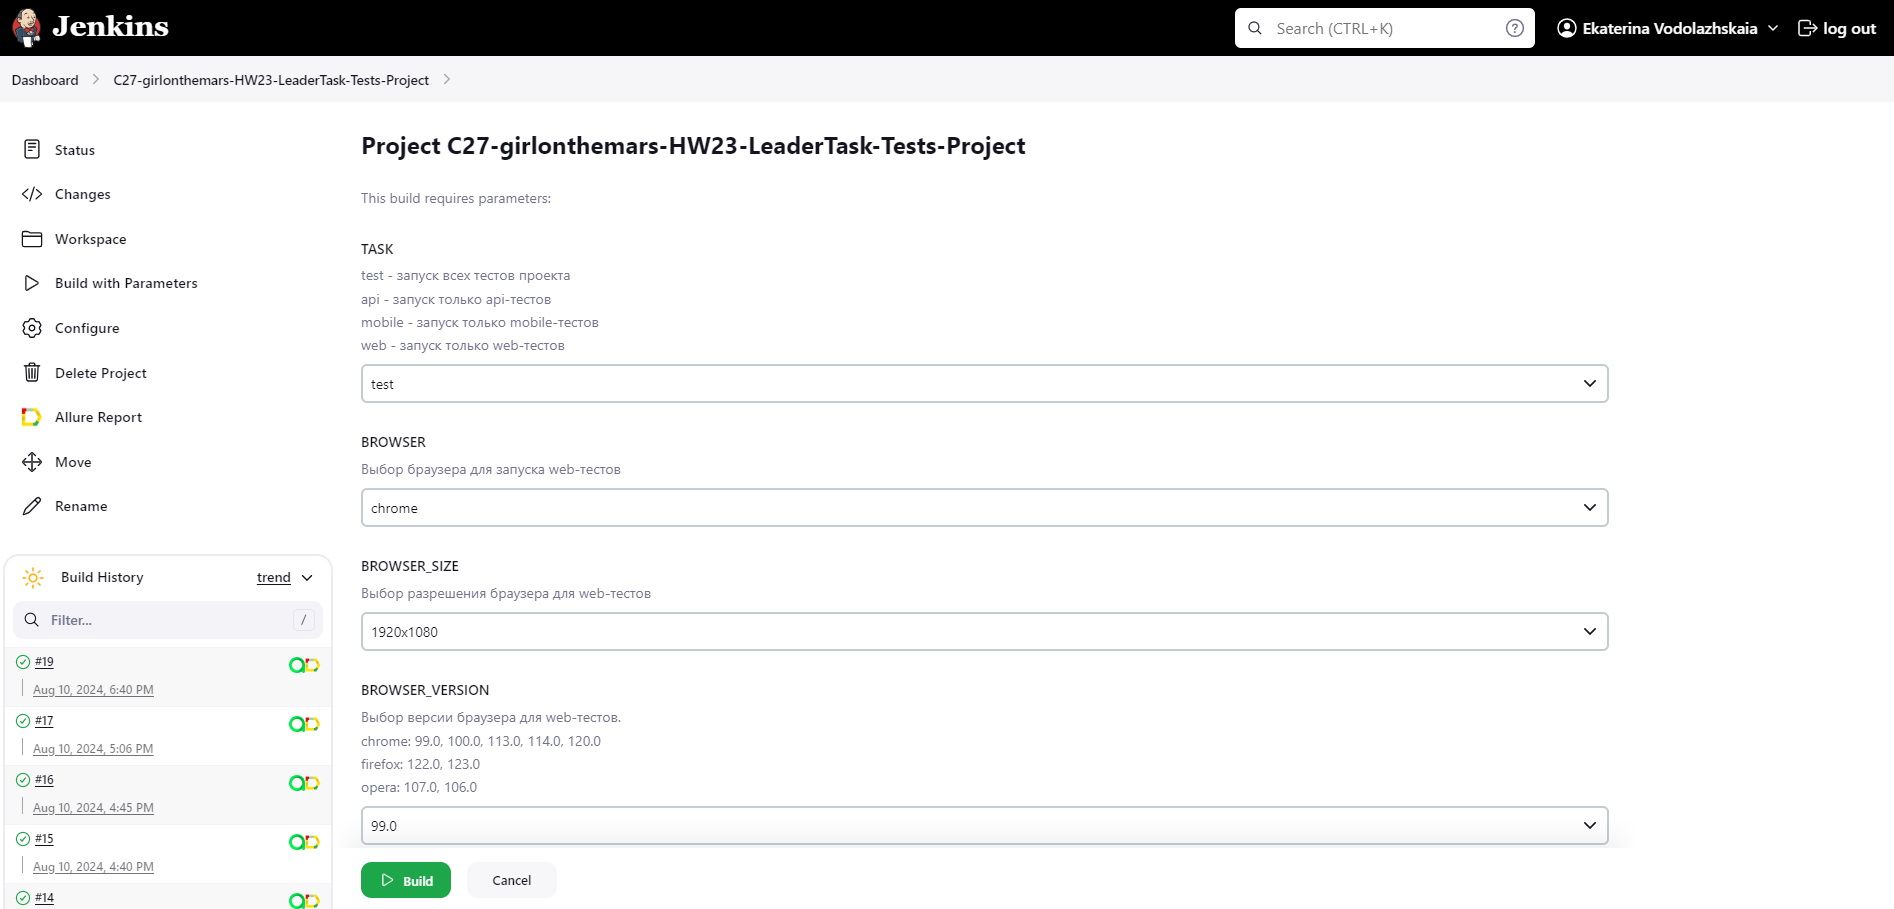
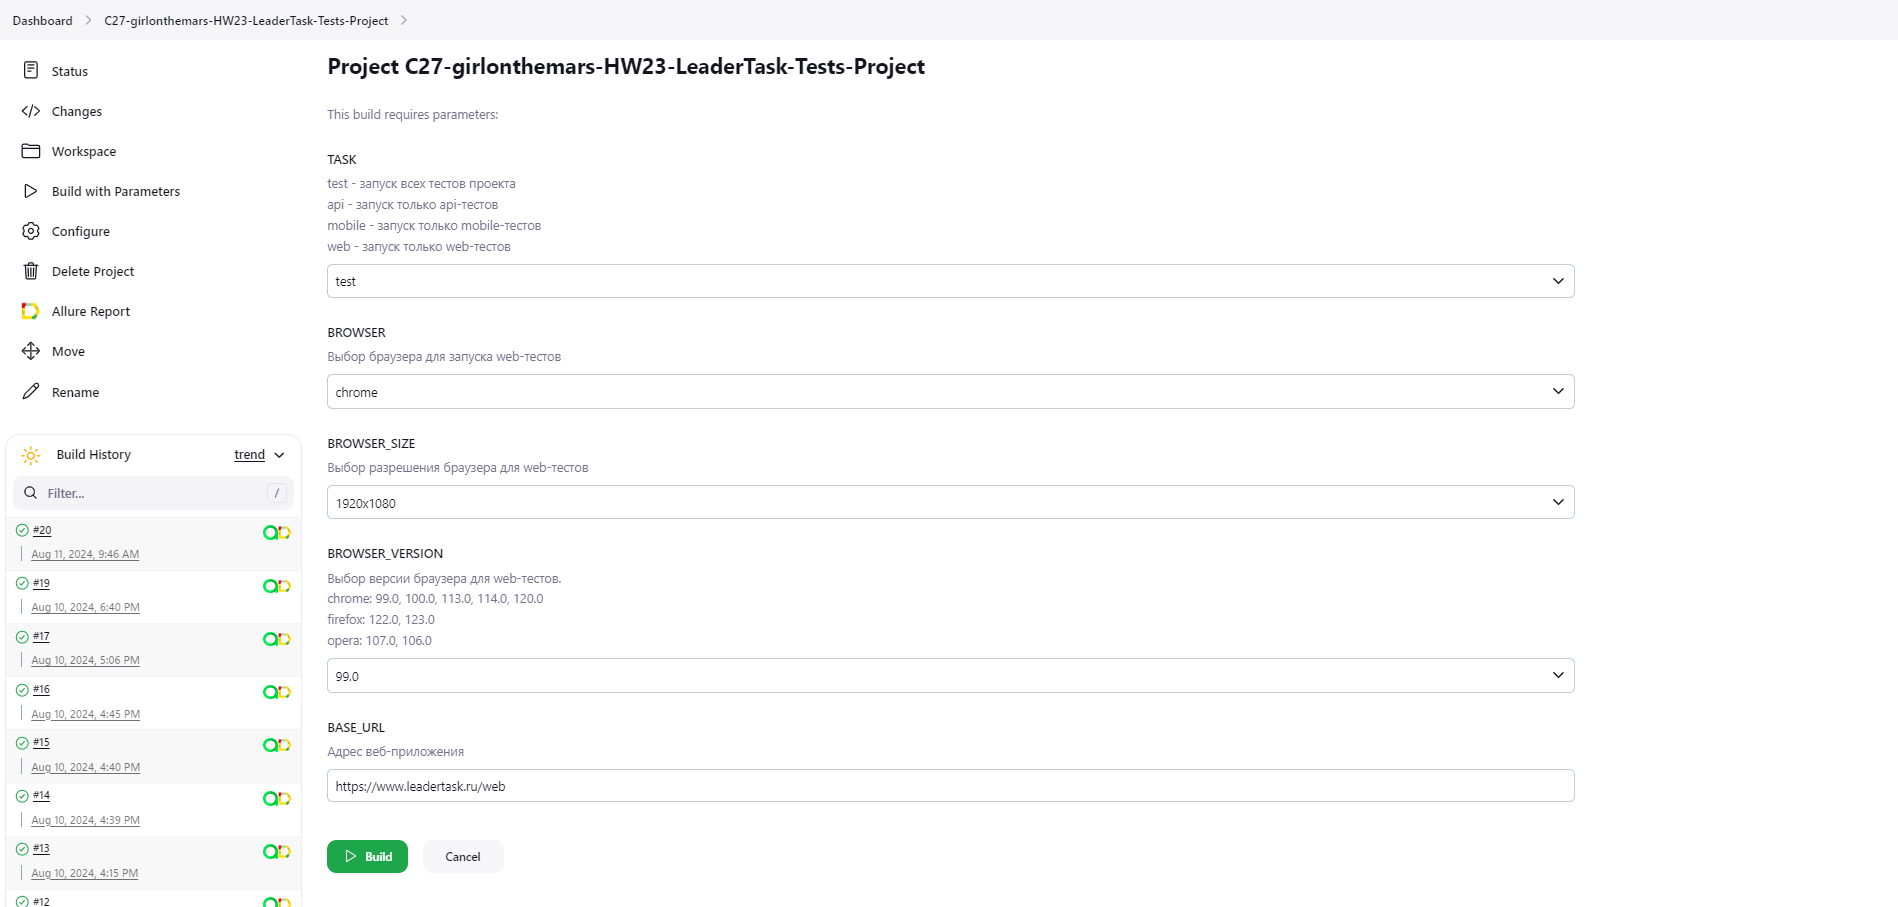
minor fixes

diff --git a/src/test/java/tests/web/WebTestBase.java b/src/test/java/tests/web/WebTestBase.java
@@ -18,15 +18,15 @@ import java.util.Map;
 
 import static com.codeborne.selenide.Selenide.closeWebDriver;
 
-public class TestBase {
+public class WebTestBase {
+    public static String browserHost = System.getProperty("browserHost", "remote");
+
     @BeforeAll
     static void beforeAll() {
-
         ApiConfig apiConfig = ConfigFactory.create(ApiConfig.class);
         RestAssured.baseURI = apiConfig.baseURI();
         RestAssured.basePath = apiConfig.basePath();
 
-        String browserHost = System.getProperty("browserHost", "remote");
         WebConfig webConfig = ConfigFactory.create(WebConfig.class, System.getProperties());
         AuthConfig authConfig = ConfigFactory.create(AuthConfig.class);
 
@@ -58,7 +58,10 @@ public class TestBase {
     void addAttachments() {
         Attach.screenshotAs("Last screenshot");
         Attach.pageSource();
-        Attach.addVideo();
+        Attach.browserConsoleLogs();
+        if (browserHost.equals("remote")) {
+            Attach.addVideo();
+        }
         closeWebDriver();
     }
 }

diff --git a/src/test/java/helpers/extensions/LoginExtension.java b/src/test/java/helpers/extensions/LoginExtension.java
@@ -1,6 +1,7 @@
 package helpers.extensions;
 
 import api.CreateUserApi;
+import io.qameta.allure.Step;
 import org.junit.jupiter.api.extension.BeforeEachCallback;
 import org.junit.jupiter.api.extension.ExtensionContext;
 
@@ -10,6 +11,7 @@ import static com.codeborne.selenide.Selenide.open;
 
 public class LoginExtension implements BeforeEachCallback {
     @Override
+    @Step("Создать нового пользователя и авторизоваться им в системе")
     public void beforeEach(ExtensionContext context) {
         CreateUserApi.setAuthData();
         open("/favicon.ico");

diff --git a/src/test/java/tests/mobile/AuthorizationFlowTests.java b/src/test/java/tests/mobile/AuthorizationFlowTests.java
@@ -10,11 +10,12 @@ import org.junit.jupiter.api.Test;
 import pages.mobile.*;
 
 import static io.qameta.allure.Allure.step;
+
 @Owner("Водолажская Екатерина")
 @Feature("Авторизация")
 @Story("Флоу авторизации в мобильном приложении")
 @Tag("mobile")
-public class AuthorizationFlowTests extends TestBase {
+public class AuthorizationFlowTests extends MobileTestBase {
     WelcomeScreen welcomeScreen = new WelcomeScreen();
     EnterEmailScreen enterEmailScreen = new EnterEmailScreen();
     SignUpScreen signUpScreen = new SignUpScreen();

diff --git a/src/test/java/tests/web/MyAccountTests.java b/src/test/java/tests/web/MyAccountTests.java
@@ -15,7 +15,7 @@ import static io.qameta.allure.Allure.step;
 @Owner("Водолажская Екатерина")
 @Feature("Профиль пользователя")
 @Tag("web")
-public class MyAccountTests extends TestBase {
+public class MyAccountTests extends WebTestBase {
     MyAccountPage myAccountPage = new MyAccountPage();
     WebTestData testData = new WebTestData();
 

diff --git a/src/test/java/tests/web/ProjectTests.java b/src/test/java/tests/web/ProjectTests.java
@@ -16,7 +16,7 @@ import static io.qameta.allure.Allure.step;
 @Owner("Водолажская Екатерина")
 @Feature("Проект")
 @Tag("web")
-public class ProjectTests extends TestBase {
+public class ProjectTests extends WebTestBase {
     LeaderTaskApi apiSteps = new LeaderTaskApi();
     ProjectPage projectPage = new ProjectPage();
     WebTestData testData;

diff --git a/src/test/java/tests/api/AuthorizationTests.java b/src/test/java/tests/api/AuthorizationTests.java
@@ -21,7 +21,7 @@ import static specs.RequestResponseSpecs.*;
 @Feature("Авторизация")
 @Story("Проверки эндпоинта /users/authjson")
 @Tag("api")
-public class AuthorizationTests extends TestBase {
+public class AuthorizationTests extends ApiTestBase {
 
     ApiTestData testData = new ApiTestData();
 

diff --git a/src/test/java/tests/api/ApiTestBase.java b/src/test/java/tests/api/ApiTestBase.java
@@ -6,7 +6,7 @@ import io.restassured.RestAssured;
 import org.aeonbits.owner.ConfigFactory;
 import org.junit.jupiter.api.BeforeAll;
 
-public class TestBase {
+public class ApiTestBase {
     @BeforeAll
     static void beforeAll() {
         ApiConfig apiConfig = ConfigFactory.create(ApiConfig.class);

diff --git a/src/test/java/tests/api/ProjectsTests.java b/src/test/java/tests/api/ProjectsTests.java
@@ -20,7 +20,7 @@ import static specs.RequestResponseSpecs.*;
 @Feature("Проект")
 @Story("Создание проекта")
 @Tag("api")
-public class ProjectsTests extends TestBase {
+public class ProjectsTests extends ApiTestBase {
 
     ApiTestData testData = new ApiTestData();
 

diff --git a/src/test/java/tests/mobile/MobileTestBase.java b/src/test/java/tests/mobile/MobileTestBase.java
@@ -15,7 +15,7 @@ import org.junit.jupiter.api.BeforeEach;
 
 import static com.codeborne.selenide.Selenide.*;
 
-public class TestBase {
+public class MobileTestBase {
 
     public static String deviceHost = System.getProperty("envMobile", "browserstack");
 

diff --git a/README.md b/README.md
@@ -116,7 +116,7 @@ flowchart LR
 ### Локальный запуск тестов
 
 > Для запуска мобильных тестов на своем устройстве необходимо заменить параметры в файле real.properties  
-> Для запуска мобильных тестов на своем устройстве гнобходимо изменить параметры в файле emulator.properties
+> Для запуска мобильных тестов на своем устройстве необходимо изменить параметры в файле emulator.properties
 
 Запуск всех тестов
 ```
@@ -127,19 +127,19 @@ gradle clean test -DbrowserHost=local -DdeviceHost=real
 gradle clean web -DbrowserHost=local
 ```
 
-Если требуется передать параметры отличные от дефолтных в интерфейсе WebConfig  
-то можно изменить интерфейс, либо передать свои параметры в переменных при запуске тестов:
+Если требуется передать параметры отличные отличные от заданных в `local.properties`, можно передать свои параметры в переменных при запуске:
 
 - `browser` – браузер, в котором будут выполняться тесты
 - `browserSize` – размер окна браузера, в котором будут выполняться тесты
 - `browserVersion` – версия браузера, в котором будут выполняться тесты
-
+- `baseUrl` - адрес веб-приложения
  ```
 gradle clean test 
 -DbrowserHost=local
 -Dbrowser=chrome
 -DbrowserSize=1920x1080
 -DbrowserVersion=120.0
+-DbaseUrl=https://www.leadertask.ru/web
 ```
 Запуск API тестов
 ```
@@ -170,17 +170,18 @@ gradle clean web
 gradle clean web -DbrowserHost=remote
 ```
 
-Если требуется передать параметры отличные от дефолтных в интерфейсе WebConfig  
-то можно изменить интерфейс, либо передать свои параметры в переменных при запуске тестов  
+Если требуется передать параметры, отличные от заданных в `remote.properties`, можно передать свои параметры в переменных при запуске:  
 
 - `browser` – браузер, в котором будут выполняться тесты
 - `browserVersion` – версия браузера, в которой будут выполняться тесты
 - `browserSize` – размер окна браузера, в котором будут выполняться тесты
+- `baseUrl` - адрес веб-приложения
 ```
 gradle clean test 
 -Dbrowser=chrome
 -DbrowserVersion=99.0
 -DbrowserSize=1920x1080
+-DbaseUrl=https://www.leadertask.ru/web
 ```
 Запуск мобильных тестов на BrowserStack
 ```
@@ -205,6 +206,7 @@ clean ${TASK}
 -"Dbrowser=${BROWSER}"
 -"DbrowserSize=${BROWSER_SIZE}"
 -"DbrowserVersion=${BROWSER_VERSION}"
+-"DbaseUrl=${BASE_URL}
 ```
 Для запуска сборки необходимо перейти в раздел <code>Собрать с параметрами</code>, задать параметры и нажать кнопку <code>Собрать</code>.
 <p align="center">
@@ -218,18 +220,21 @@ clean ${TASK}
 
 ---
 ## <img width="4%" style="vertical-align:middle" title="Allure_Report" src="media/logo/Allure_Report.svg"> Интеграция с [Allure Report](https://jenkins.autotests.cloud/job/C27-girlonthemars-HW23-LeaderTask-Tests-Project/19/allure/)
-В отчете отображаются: 
-- дата и время теста
-- общее количество запущенных тестов
-- диаграмма с процентом и количеством успешных, упавших и сломанных тестов
+`Allure Report` - инструмент для генерации и визуализации отчетов о выполнении тестов который позволяет представлять результаты тестирования в наглядной и удобной форме.
 
 ### Диаграмма прохождения тестов
+В разделе отображаются:
+- дата и время теста
+- общее количество выполненных тестов
+- диаграмма статусов тестов
+- график трендов, отображающий изменения в результатах тестирования с течением времени
 
 <p align="center">  
 <img title="Allure Overview Dashboard" src="media/screenshots/allure-1.png">  
 </p>  
 
 ### Развернутый результат прохождения тестов
+В разделе отображаются:
 - Список автотестов, разбитый на сьюты или фичи
 - Шаги автотеста
 - Вложения (скриншот/видео прохождения/код страницы)
@@ -239,21 +244,31 @@ clean ${TASK}
 </p>
 
 ### Графики
+В разделе отображаются:
+- круговая диаграмма распределния результатов тестов по статусам
+- диаграмма распределения тестов по severity
+- диаграмма распределения тестов по времени выполнения
+- графики трендов: по врмени выполнения, статусам, категориям
+
 <p align="center">  
 <img title="Allure Graphs" src="media/screenshots/allure-3.png">  
 </p>
 
 ---
 ## <img width="4%" style="vertical-align:middle" title="Allure_TestOps" src="media/logo/Allure_TO.svg"> Интеграция с [Allure TestOps](https://allure.autotests.cloud/project/4369/dashboards)
-
+`Allure TestOps` - платформа для управления тестированием, которая предоставляет обширный набор для организации, выполнения и анализа тестов в проектах.
 ### Дашборд
+Сводная информация о текущем состоянии тестирования проекта:
+- общее количество тест-кейсов
+- процент автоматизации кейсов
+- статистика по запускам
 
 <p align="center">  
 <img title="Allure TestOps Dashboard" src="media/screenshots/testops-1.png">  
 </p>
 
 ### Тест-кейсы
-Пример «живой документации».
+Пример «живой документации»: тест-кейсы, сгенерированные на основе автотестов, с описанием шагов и разбиенем на фичи и стори.
 
 <p align="center">  
 <img title="Allure TestOps Test Cases" src="media/screenshots/testops-2.png">  
@@ -283,17 +298,23 @@ clean ${TASK}
 ---
 ## <img width="4%" style="vertical-align:middle" title="Jira" src="media/logo/Jira.svg"> Интеграция с [Jira](https://jira.autotests.cloud/browse/HOMEWORK-1315)
 
-### В Jira создана задача
+Интеграция `Jira` и `Allure TestOps` позволяет связать задачи и тестовую документацию, что упрощает отслеживаение статуса тестирования в контексте задач и позволяет более эффективно управлять качеством продукта.
+### Задача в  Jira 
+
 <p align="center">  
 <img title="Jira Task" src="media/screenshots/jira-1.png">  
 </p>
 
-### В разделе `Allure:Test Cases` отображаются связаные тест-кейсы из Allure TestOps
+### Раздел Allure: Test Cases
+В данном разделе отображаются связанные с задачей тест-кейсы.
+
 <p align="center">  
 <img title="Jira Test Cases" src="media/screenshots/jira-2.png">  
 </p>
 
-### В разделе `Allure:Launches` отображаются связанные запуски прогонов из Allure TestOps
+### Раздел Allure: Launches 
+В данном разделе отображаются связанные запуски прогонов из Allure TestOps.
+
 <p align="center">  
 <img title="Jira Launches" src="media/screenshots/jira-3.png">  
 </p>
